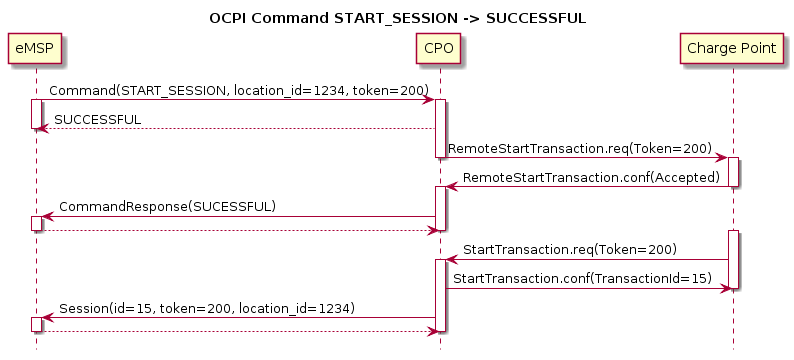
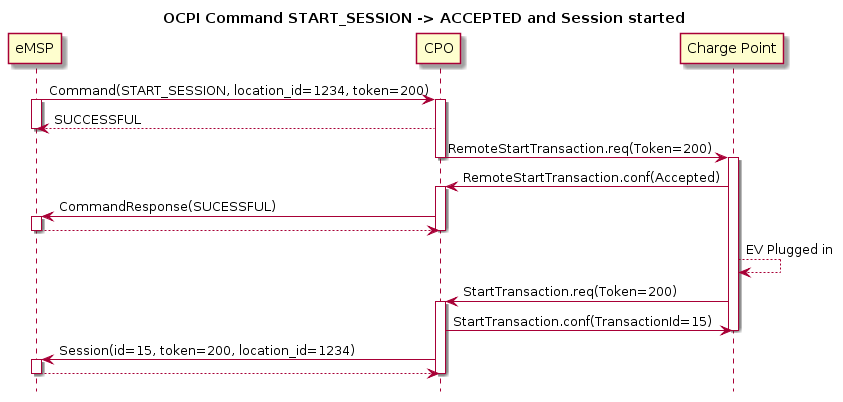
Updated commands module.

Changed region(s): [[0.0, 0.0306, 0.9975, 0.9472]]

diff --git a/mod_commands.md b/mod_commands.md
@@ -3,23 +3,40 @@
 **Module Identifier: `commands`**
 
 The Commands module enables remote commands to be sent to a Location/EVSE.
+The following commands are supported: 
+`RESERVE_NOW`
+`START_SESSION`
+`STOP_SESSION`
+`UNLOCK_CONNECTOR`
+
+See [CommandType](#42-commandtype-enum) for a description of the different commands.
+_Use the `UNLOCK_CONNECTOR` command with care, please read the note at [CommandType](#42-commandtype-enum)._ 
 
 
 ## 1. Flow
 
-TODO Describe asynchronous nature of this interface/module
-Response URL might contain an UID to 
+With the Commands module, commands can be send from the eMSP, via the CPO to a Charge Point.
+Most Charge Point are hooked up to the internet via a relative slow wireless connection. To prevent long blocking calls, the commands module is designed to work asynchronous.
+ 
+The eMSP send a request to a CPO, via the CPO Commands interface. The CPO check if it can send the request to a Charge Point. It will response to the request with a status, indicating if the request can be send to a Charge Point. 
 
-Example of a UNLOCK_CONNECTOR that fails because the Location is not known by the CPO.
+The CPO sends the requested command (via another protocol, for example: OCPP) to a Charge Point. The Charge Point will respond, if it understand the command and will try to execute the command. This response doesn't mean the command was executed successful. The CPO will forward this command in a new POST request to the eMSP Commands interface.  
+
+The following examples try to give insight into the message flow and asynchronous nature of the OCPI Commands.
+Example of a `UNLOCK_CONNECTOR` that fails because the Location is not known by the CPO.
 ![UNLOCK_CONNECTOR unkown Location](data/command_unlock_unknow_location.png)
 
-Example of a RESERVE_NOW that is rejected by the Charge Point.
+Example of a `RESERVE_NOW` that is rejected by the Charge Point.
 ![RESERVE_NEW rejected by Charge Point](data/command_reservenow_rejected.png)
 
-Example of a START_SESSION that is successful and results in a new Session.
+Example of a `START_SESSION` that is accepted, but no new Session is started because EV not plugged in before end of time-out.
+![START_SESSION failed](data/command_start_session_timeout.png)
+
+Example of a `START_SESSION` that is accepted and results in a new Session.
 ![START_SESSION successful](data/command_start_session_succesful.png)
 
 _These examples use OCPP 1.6 based commands between CPO and Charge Point, but that is not a requirement for OCPI._
+
 
 ## 2. Interfaces and endpoints
 
@@ -68,7 +85,7 @@ Depending on the `command` parameter the body SHALL contain the applicable objec
 
 ##### Response Data
 
-The response contains the direct response from the CPO, not the response from the Charge Point itself, that will be send via a asynchronous POST on the eMSP interface if this response is `SUCCESSFUL`
+The response contains the direct response from the CPO, not the response from the Charge Point itself, that will be send via a asynchronous POST on the eMSP interface if this response is `ACCEPTED`
 
 <div><!-- ---------------------------------------------------------------------------- --></div>
 | Datatype                                            | Card. | Description                                                              |
@@ -192,7 +209,7 @@ The command requested.
 |-----------------|--------------------------------------------------------------------------------------------|
 | NOT_SUPPORTED   | The requested command is not supported by this CPO, Charge Point, EVSE etc.                |
 | REJECTED        | Command request rejected by the CPO or Charge Point.                                       |
-| SUCCESSFUL      | Command request accepted by the CPO or Charge Point.                                       |
+| ACCEPTED        | Command request accepted by the CPO or Charge Point.                                       |
 | TIMEOUT         | Command request timeout, no response received from the Charge Point in an reasonable time. |
 | UNKOWN_LOCATION | The Location, EVSE or Location in the requested command is not known by this CPO.          |
 | UNKOWN_SESSION  | The Session in the requested command is not known by this CPO.                             |
